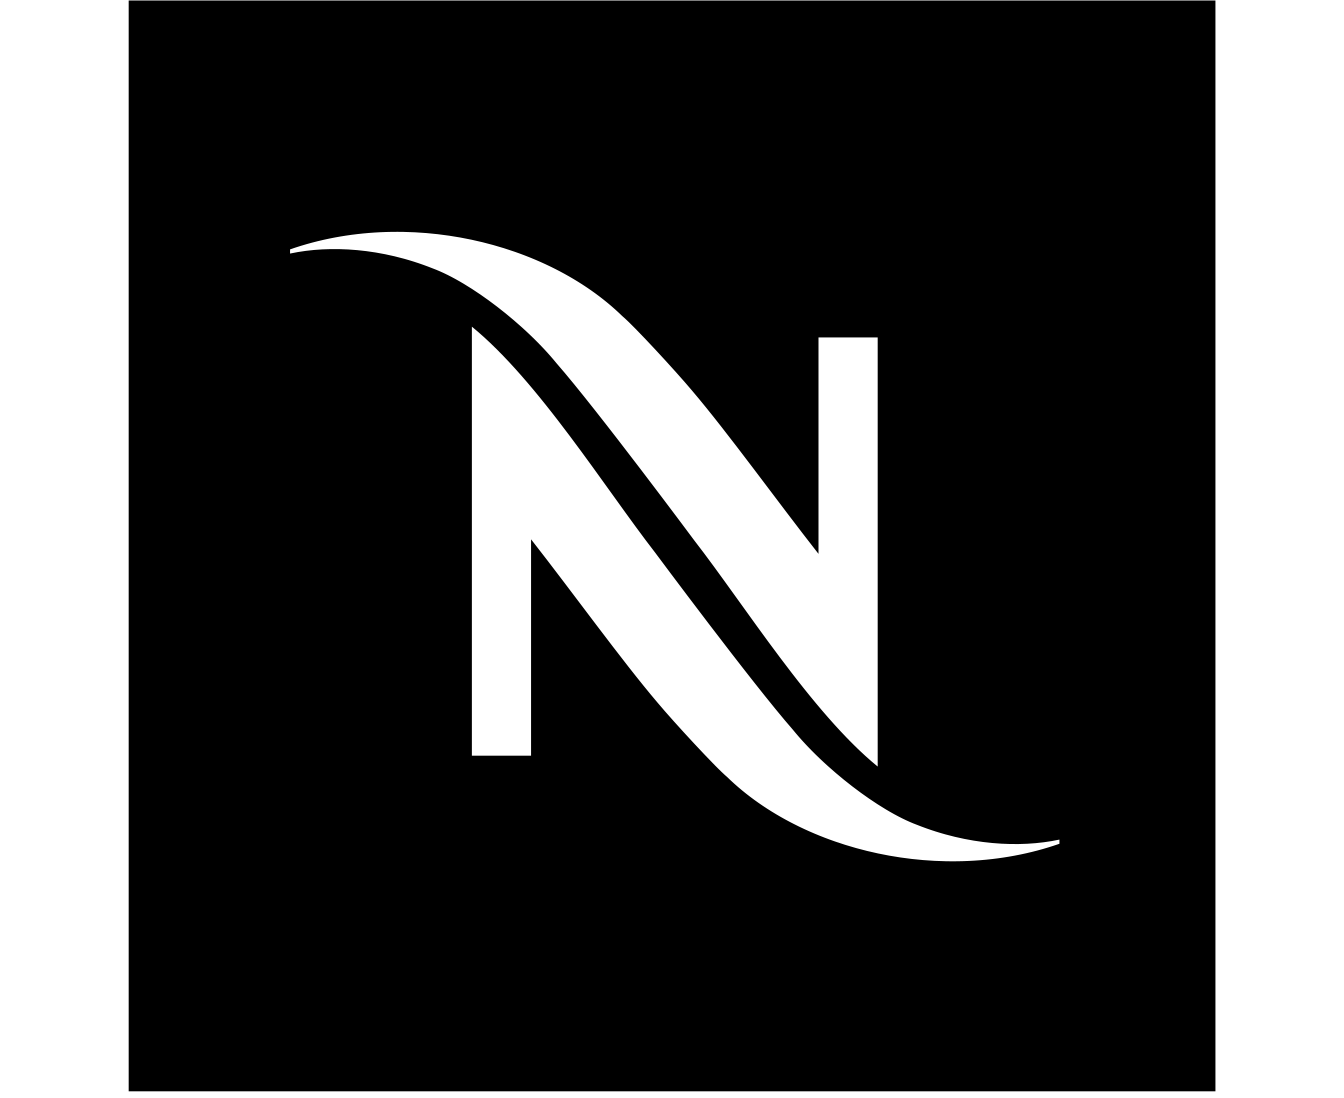
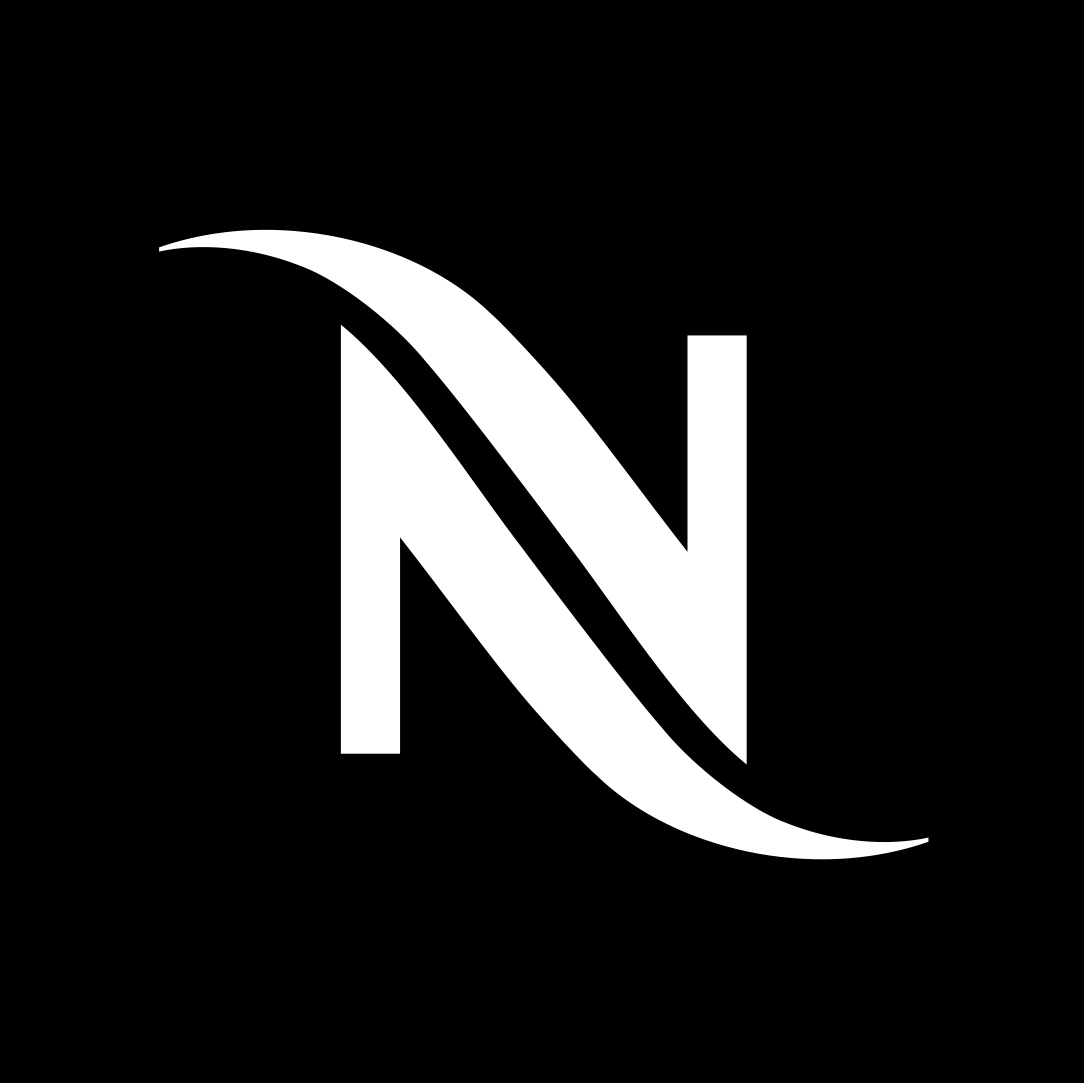
login page updated

diff --git a/src/components/Login.js b/src/components/Login.js
@@ -3,6 +3,7 @@ import { Form, Alert } from "react-bootstrap";
 import { Button } from "react-bootstrap";
 import { Link, useNavigate } from "react-router-dom";
 import { useUserAuth } from "../context/UserAuthContext";
+import Logo from "../Logo/Nespresso-Logotype-Correct-2048x533.png"
 
 const Login = () => {
   const [email, setEmail] = useState("");
@@ -25,7 +26,8 @@ const Login = () => {
     <>
       <div className="modal-content rounded-4 shadow">
         <div className="p-4 box">
-          <h2 className="mb-3">Nespresso SVR</h2>
+          <img className="mb-3" src={Logo} height={80} width={400} />
+          {/* <h2 className="mb-3">Nespresso SVR</h2> */}
           {error && <Alert variant="danger">{error}</Alert>}
           <Form onSubmit={handleSubmit}>
             <Form.Group className="mb-3" controlId="formBasicEmail">

diff --git a/public/index.html b/public/index.html
@@ -9,7 +9,7 @@
       name="description"
       content="Web site created using create-react-app"
     />
-    <link rel="apple-touch-icon" href="%PUBLIC_URL%/logo192.png" />
+    <link rel="apple-touch-icon" href="%PUBLIC_URL%/favicon.ico" />
     <!--
       manifest.json provides metadata used when your web app is installed on a
       user's mobile device or desktop. See https://developers.google.com/web/fundamentals/web-app-manifest/
